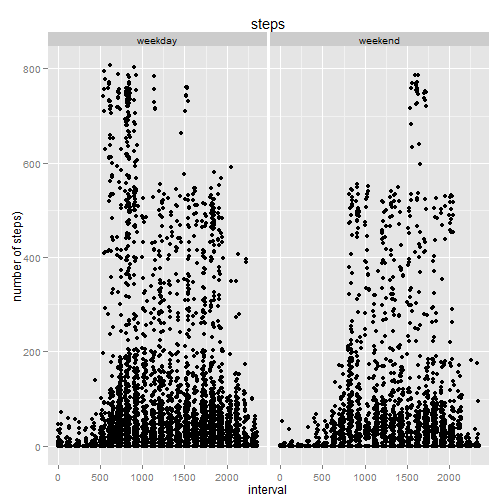
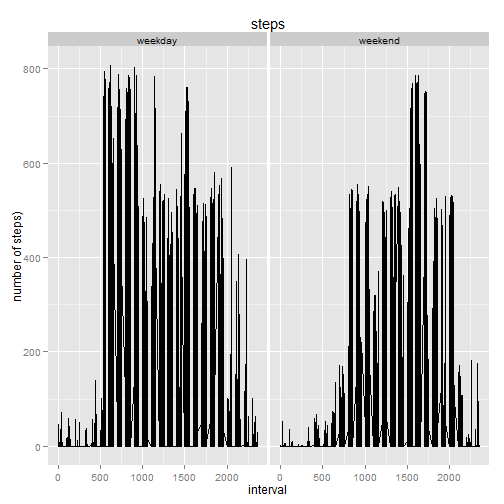
my updated work

Changed region(s): [[0.0893, 0.119, 0.506, 0.8929], [0.5357, 0.1488, 0.9524, 0.8929], [0.2976, 0.1488, 0.3274, 0.1786]]

diff --git a/PA1_template.html b/PA1_template.html
@@ -409,11 +409,11 @@ newdat &lt;- cbind(newdat, wd)
 library(ggplot2)
 
 g &lt;- ggplot(newdat, aes(interval, steps))
-p &lt;- g + geom_point() + facet_grid(. ~ wd) + labs(title = &quot;steps&quot;, y = &quot;number of steps)&quot;)
+p &lt;- g + geom_line() + facet_grid(. ~ wd) + labs(title = &quot;steps&quot;, y = &quot;number of steps)&quot;)
 print (p)
 </code></pre>
 
[2 lines of base64/hex data omitted]
 
 </body>
 

diff --git a/PA1_template.md b/PA1_template.md
@@ -226,7 +226,7 @@ newdat <- cbind(newdat, wd)
 library(ggplot2)
 
 g <- ggplot(newdat, aes(interval, steps))
-p <- g + geom_point() + facet_grid(. ~ wd) + labs(title = "steps", y = "number of steps)")
+p <- g + geom_line() + facet_grid(. ~ wd) + labs(title = "steps", y = "number of steps)")
 print (p)
 ```
 
